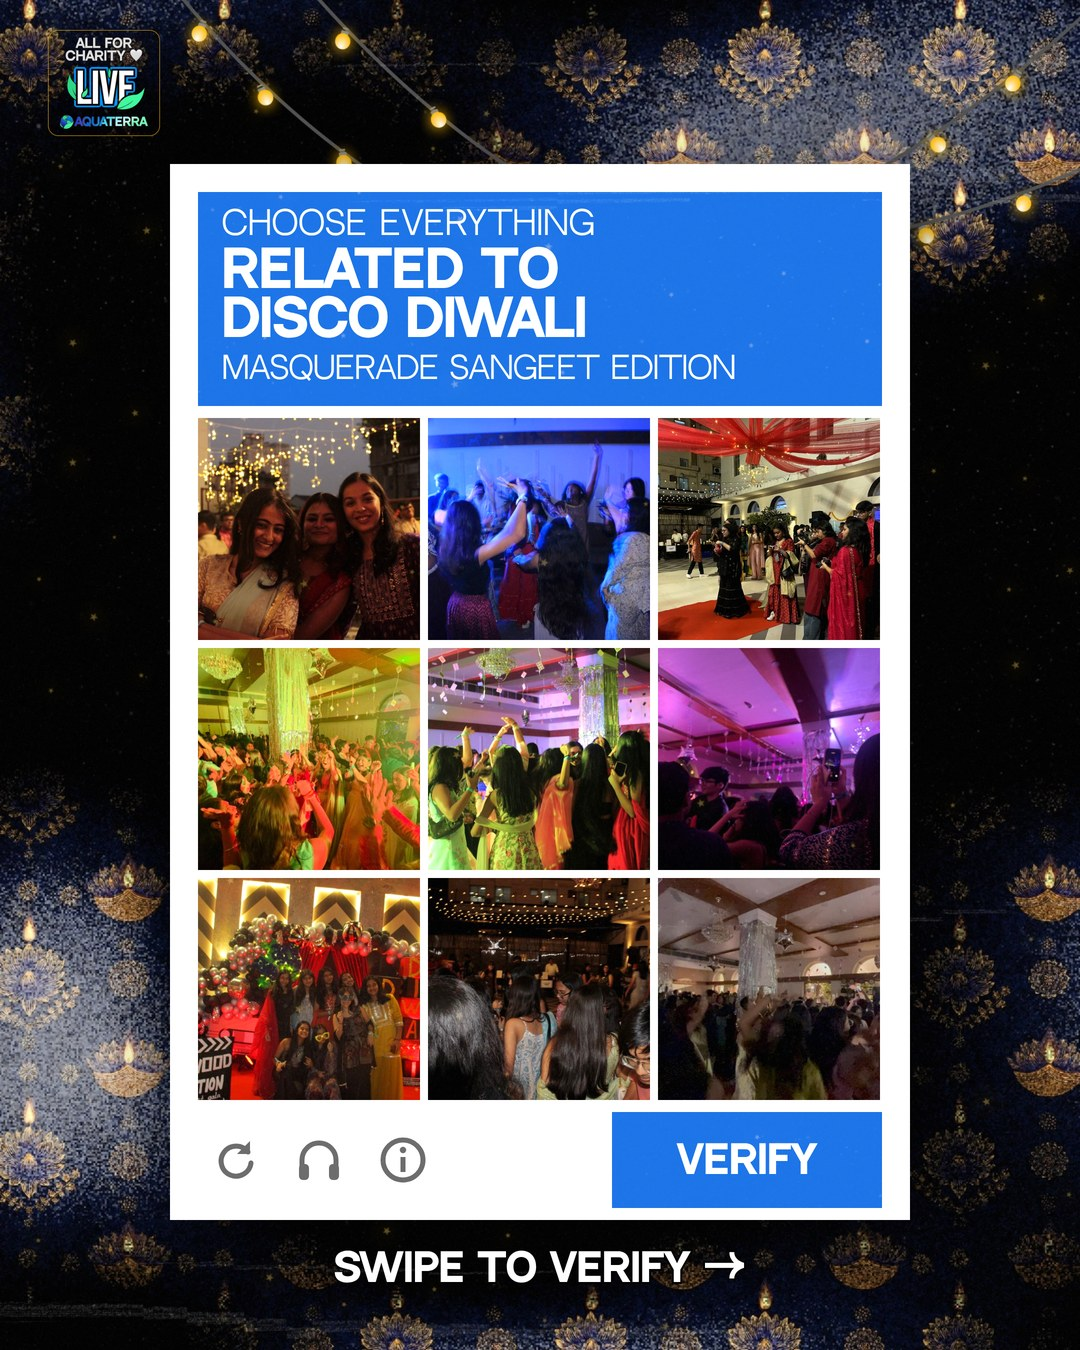
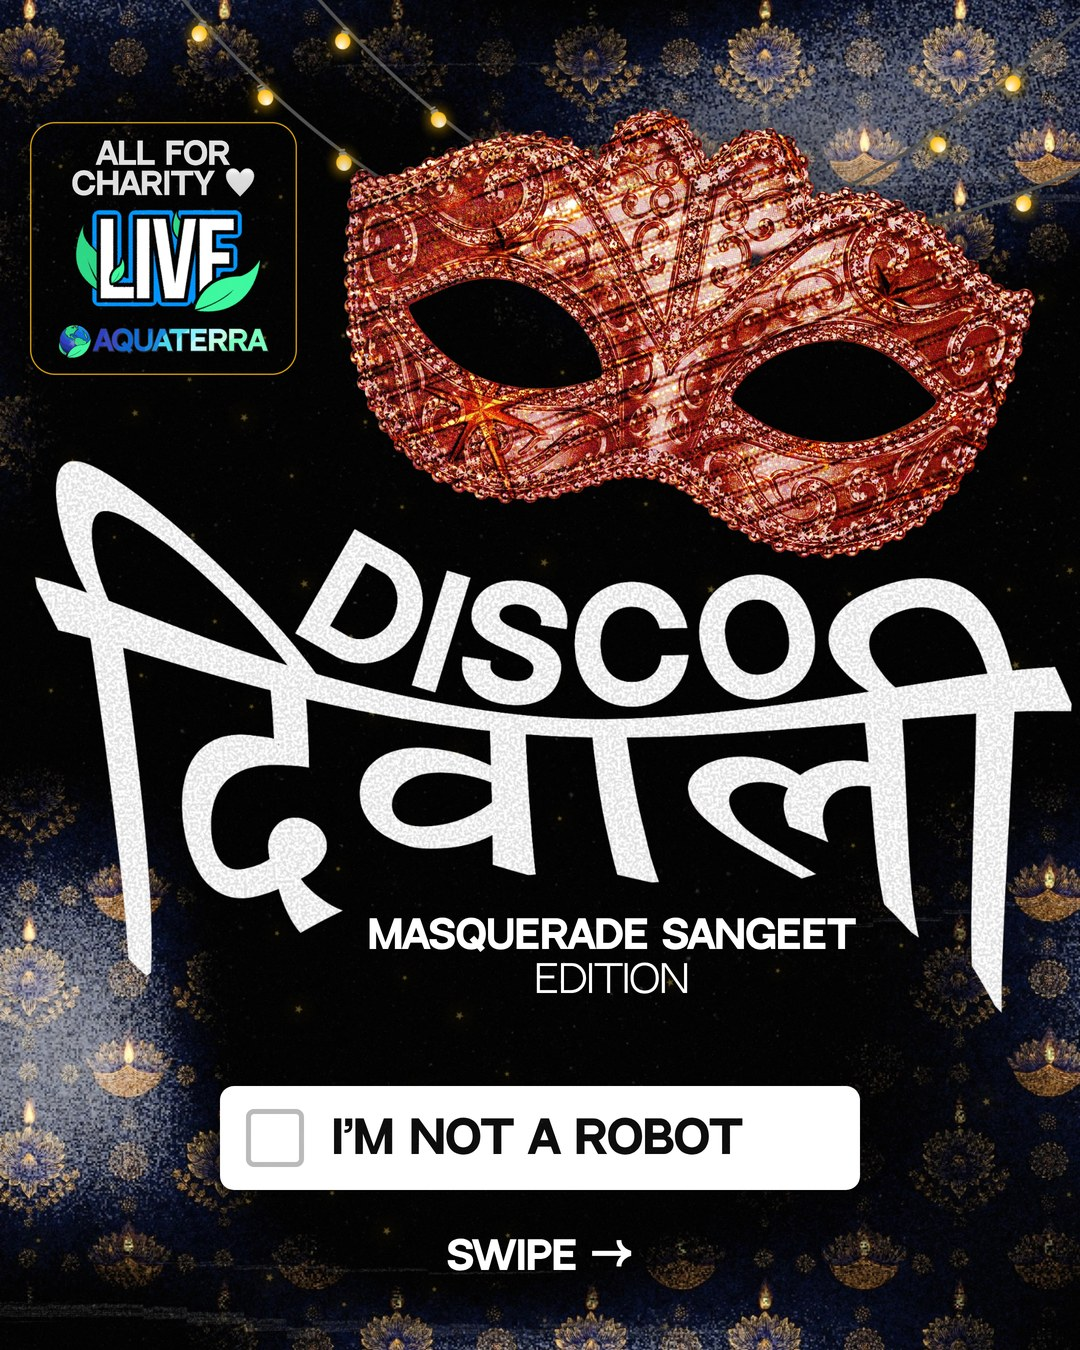
Disco Diwali captcha carousel: add a cover (I'm not a robot hook), remove the reveal slide
Claude-Session: https://claude.ai/code/session_01SvqxkoTEENgXPyjFifmnqB

diff --git a/scratchpad/dd_carousel_captcha.py b/scratchpad/dd_carousel_captcha.py
@@ -1,10 +1,11 @@
 """DISCO DIWALI carousel, "CAPTCHA" idea (inspo: a 'Choose everything related to...' verification card over a party photo).
 
 Four 1080x1350 slides on the approved diya ground (black, navy and gold lotus-diya corners fading to black, string lights):
-  1  the captcha, nine REAL event photos in the 3x3 grid, nothing selected yet
-  2  the same card, all nine selected (tiles inset, tick badges), the button now says VERIFIED
-  3  the reveal: the approved poster_ref design (title lockup, copper mask, LIVE badge, diya plate)
+  1  COVER: title lockup, copper mask, LIVE badge, an "I'M NOT A ROBOT" checkbox hook and a swipe cue
+  2  the captcha, nine REAL event photos in the 3x3 grid, nothing selected yet
+  3  the same card, all nine selected (tiles inset, tick badges), the button now says VERIFIED
   4  ALL FOR CHARITY + date and time + LINK IN BIO pill
+(The earlier reveal slide, the poster_ref design with the status lines, was removed by the user, 2026-10-14.)
 
 Adaptations recorded (CLAUDE.md sec 2 precedence ladder):
   - The captcha card is a DESIGN DEVICE, not a fabricated UI screenshot: no reCAPTCHA marks, every tile is a real AQ photo, the button is ours.
@@ -92,6 +93,26 @@ def captcha_slide(bg, sub, selected, button):
     return bg_layers() + card + bd + cue, els
 
 
+def cover_slide():
+    """Cover: the approved title lockup, copper mask and LIVE badge on the diya ground (positions measured for poster_ref), then the hook, a
+    captcha checkbox reading I'M NOT A ROBOT, which the next slide answers. No date, no status line: the cover only has to stop the thumb."""
+    k, t = .4925, .6034
+    bd, bd_box = badge(30, 122, 267)
+    mask = (f'<img data-tag="mask" src="{dd.uri("mask_copper.png")}" style="position:absolute;left:{round(343 - 157 * k)}px;top:{round(108 - 211 * k)}px;width:{round(1680 * k)}px;z-index:6;'
+            f'filter:drop-shadow(0 8px 26px rgba(0,0,0,.6))">')
+    title = (f'<img data-tag="title" src="{dd.uri("title_lockup_noball.png")}" style="position:absolute;left:{round(35 - 265 * t)}px;top:{round(461 - 401 * t)}px;width:{round(2000 * t)}px;z-index:9">')
+    sub1 = (f'<div data-tag="sub1" style="position:absolute;left:352px;top:917px;width:520px;text-align:center;font-family:var(--d);font-weight:700;font-size:38px;text-transform:uppercase;{STROKE}z-index:10">Masquerade Sangeet</div>')
+    sub2 = (f'<div data-tag="sub2" style="position:absolute;left:452px;top:962px;width:320px;text-align:center;font-family:var(--d);font-weight:400;font-size:37px;text-transform:uppercase;{STROKE}z-index:10">Edition</div>')
+    PW, PH, PY = 640, 104, 1086
+    pill = (f'<div data-tag="check" style="position:absolute;left:{(W - PW) // 2}px;top:{PY}px;width:{PW}px;height:{PH}px;background:#fff;border-radius:14px;z-index:12;box-shadow:0 14px 44px rgba(0,0,0,.55)">'
+            f'<div style="position:absolute;left:26px;top:{(PH - 58) // 2}px;width:58px;height:58px;border:5px solid #b9b9b9;border-radius:8px;background:#fff;box-sizing:border-box"></div>'
+            f'<div style="position:absolute;left:112px;top:0;height:{PH}px;display:flex;align-items:center;font-family:var(--d);font-weight:700;font-size:44px;text-transform:uppercase;color:#0a0a0a;white-space:nowrap">I\'m not a robot</div></div>')
+    cue = (f'<div data-tag="cue" style="position:absolute;left:0;width:{W}px;top:1238px;text-align:center;font-family:var(--d);font-weight:700;font-size:38px;text-transform:uppercase;{STROKE}z-index:20">Swipe &rarr;</div>')
+    els = [("mask", 343, 108, 692, 452), ("badge",) + bd_box, ("title", 35, 461, 1036, 551), ("sub1", 352, 917, 520, 44), ("sub2", 452, 962, 320, 40),
+           ("check", (W - PW) // 2, PY, PW, PH), ("cue", W // 2 - 140, 1238, 280, 44)]
+    return bg_layers() + mask + bd + title + sub1 + sub2 + pill + cue, els
+
+
 def charity_slide():
     bd, bd_box = badge(64, 64, 215)
     mask = (f'<img data-tag="mask" src="{dd.uri("mask_copper.png")}" style="position:absolute;left:370px;top:20px;width:700px;z-index:12">')
@@ -107,19 +128,17 @@ def charity_slide():
 
 async def main():
     os.makedirs(OUT, exist_ok=True)
-    slides = [captcha_slide("08", "Masquerade Sangeet Edition", False, "Verify"),
+    slides = [cover_slide(),
+              captcha_slide("08", "Masquerade Sangeet Edition", False, "Verify"),
               captcha_slide("08", "Yes, all nine", True, "Verified"),
-              None, charity_slide()]
+              charity_slide()]
     async with B.session():
         for n, s in enumerate(slides, 1):
             path = os.path.join(OUT, f"slide_{n}.png")
-            if s is None:
-                await dd.render_poster("poster_ref", dict(edition="Masquerade Sangeet Edition", status="Ticket sales open soon",
-                                                          note="More details to follow", link=False), "feed", path)
-                continue
             html_inner, els = s
             html = B.page(W, H, "#000", html_inner, grain=False)
-            await B.render(html, path, W, H, elements=els, containers=("card",), bleed_tags=("plate",), crop_tags=("plate",), page_bg="#000")
+            await B.render(html, path, W, H, elements=els, containers=("card",), bleed_tags=("plate",), crop_tags=("plate",), page_bg="#000",
+                           collision_ignore=[("title", "sub1"), ("title", "sub2"), ("mask", "title")])
     from PIL import Image
     ims = [Image.open(os.path.join(OUT, f"slide_{i}.png")).convert("RGB").resize((432, 540)) for i in range(1, 5)]
     sh = Image.new("RGB", (432 * 4 + 30, 540), (40, 40, 40))

diff --git a/brain/DISCO_DIWALI.md b/brain/DISCO_DIWALI.md
@@ -76,7 +76,7 @@ Real event photos from `engine/assets/img/events/unsorted-2026-10-07/` (by NN pr
 Use kind `story_ref` (`scratchpad/dd_bulk_stories.py`), never `story_launch`, for any batch of stories. It is the remake of the user's reference story, built from measured positions: LIVE badge top left, copper mask top right, ball-free title lockup (`title_lockup_noball.png`), "MASQUERADE SANGEET" 40px bold with a white regular "EDITION" 38px, "TICKET SALES OPEN SOON" 52px, "MORE DETAILS TO FOLLOW" 38px, and a soft gold-edged "LINK IN BIO" pill. Photo runs edge to edge (no diya plate), all type NeutralFace white with a thin black border, no date or time. Only the photo changes between stories. Open questions: the reference's own photo is not in the repo (photo 05 stands in), and the pill sits where an Instagram link sticker would go.
 
 ### CAROUSEL: "captcha" (`scratchpad/dd_carousel_captcha.py`, JPEGs in `sample_outputs/disco_diwali_carousel/`)
-Four 1080x1350 slides on the approved diya ground (user, 2026-10-14, "i want this blue effect": black, navy and gold lotus-diya corners fading to black, string lights; not the beam recipe), from a user inspo (a "Choose everything related to..." verification card over a party photo): 1 the card with nine real event photos, 2 the same card with all nine ticked and the button reading VERIFIED, 3 the reveal (the approved `poster_ref` design on the diya ground), 4 ALL FOR CHARITY with date, time and the LINK IN BIO pill. Adaptations: the card is a design device (no reCAPTCHA marks, real photos, our button); the inspo's "best parties in the city" became "Related to Disco Diwali" because the claim cannot be backed; the header keeps the inspo's blue as the recognisable mechanism. No price, venue or lineup. Photo consent caveat applies (nine event photos, several show apparent minors).
+Four 1080x1350 slides on the approved diya ground (user, 2026-10-14, "i want this blue effect": black, navy and gold lotus-diya corners fading to black, string lights; not the beam recipe), from a user inspo (a "Choose everything related to..." verification card over a party photo): 1 the COVER (title lockup, copper mask, LIVE badge, an "I'M NOT A ROBOT" checkbox hook, a swipe cue), 2 the card with nine real event photos, 3 the same card with all nine ticked and the button reading VERIFIED, 4 ALL FOR CHARITY with date, time and the LINK IN BIO pill. Adaptations: the card is a design device (no reCAPTCHA marks, real photos, our button); the inspo's "best parties in the city" became "Related to Disco Diwali" because the claim cannot be backed; the header keeps the inspo's blue as the recognisable mechanism. No price, venue or lineup. Photo consent caveat applies (nine event photos, several show apparent minors).
 
 ## 6. Conflicts with CLAUDE.md and how they were resolved (precedence ladder, sec 2)
 - Ground, palette and fonts differ from the AQ house style. Resolved as a format exception, like TerraThon. The format wins inside `discodiwali.py` only.
